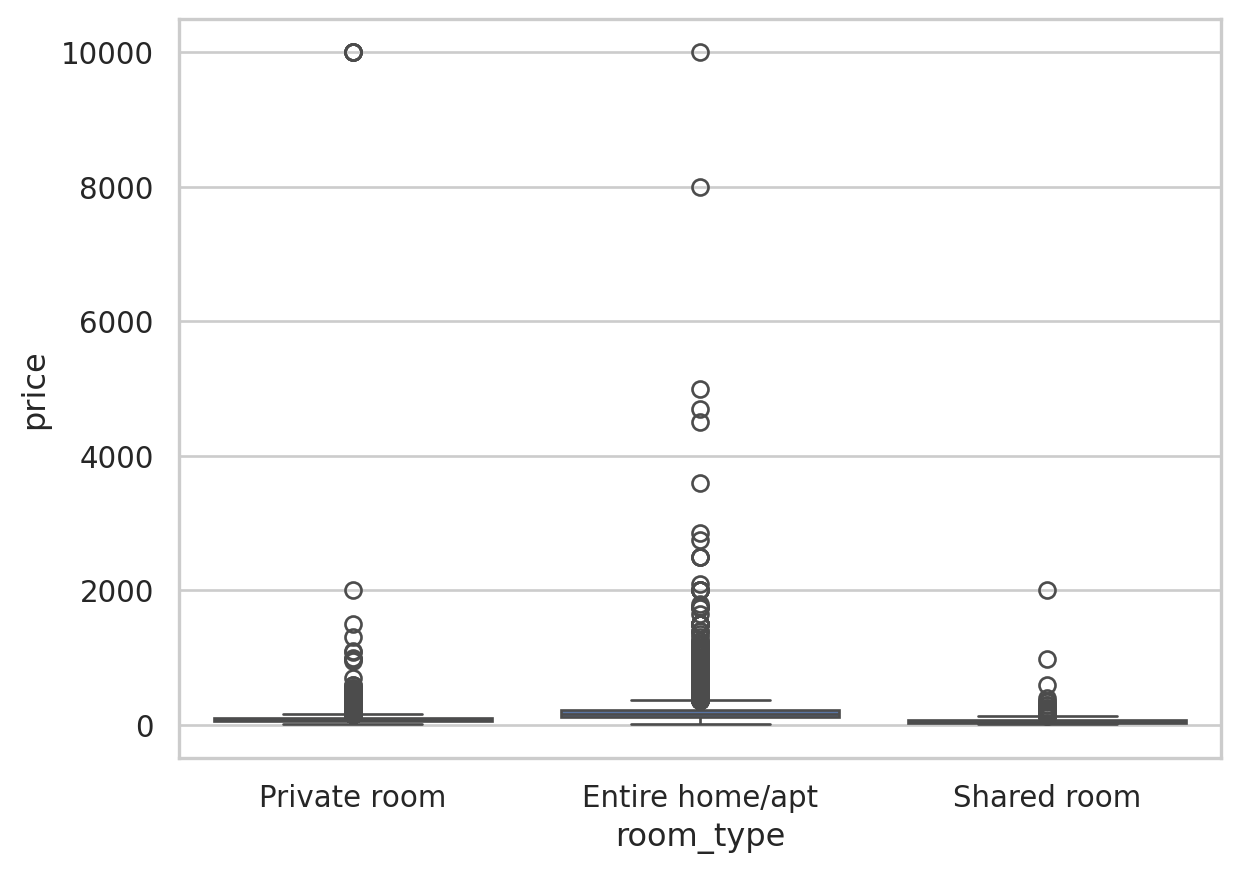
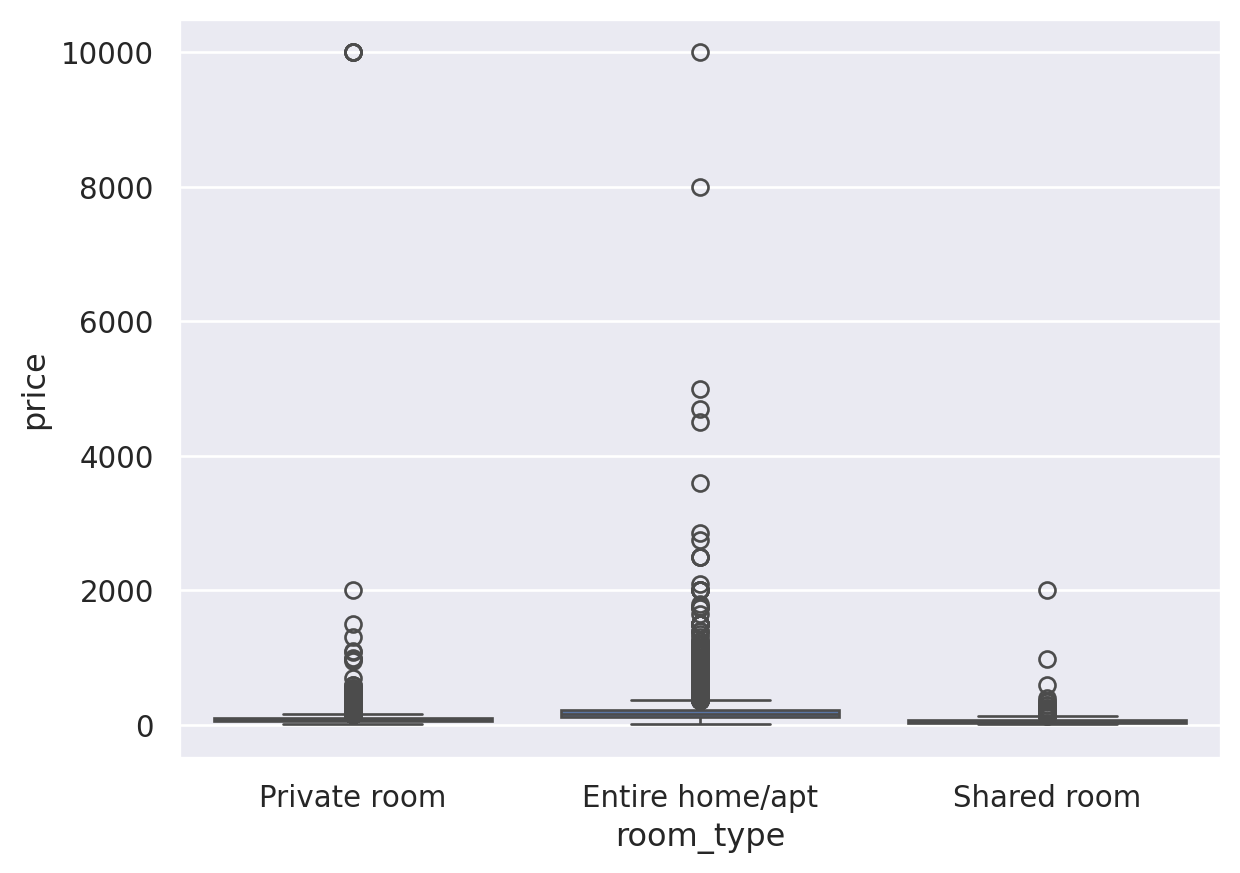
commitfinal2

diff --git a/docs/projects/homework1/hw2_questions.html b/docs/projects/homework1/hw2_questions.html
@@ -194,6 +194,8 @@ window.Quarto = {
   <li><a href="#estimation-of-simple-poisson-model" id="toc-estimation-of-simple-poisson-model" class="nav-link" data-scroll-target="#estimation-of-simple-poisson-model">Estimation of Simple Poisson Model</a></li>
   <li><a href="#estimation-of-poisson-regression-model" id="toc-estimation-of-poisson-regression-model" class="nav-link" data-scroll-target="#estimation-of-poisson-regression-model">Estimation of Poisson Regression Model</a></li>
   </ul></li>
+  <li><a href="#compute-the-poisson-regression-log-likelihood-for-given-beta-observed-y-and-covariate-matrix-x." id="toc-compute-the-poisson-regression-log-likelihood-for-given-beta-observed-y-and-covariate-matrix-x." class="nav-link" data-scroll-target="#compute-the-poisson-regression-log-likelihood-for-given-beta-observed-y-and-covariate-matrix-x.">Compute the Poisson regression log-likelihood for given beta, observed Y, and covariate matrix X.</a>
+  <ul class="collapse">
   <li><a href="#validate-the-results-above-using-statsmodels.glm-from-python" id="toc-validate-the-results-above-using-statsmodels.glm-from-python" class="nav-link" data-scroll-target="#validate-the-results-above-using-statsmodels.glm-from-python">Validate the results above using <code>statsmodels.GLM()</code> from Python</a></li>
   <li><a href="#interpretations" id="toc-interpretations" class="nav-link" data-scroll-target="#interpretations">Interpretations:</a></li>
   <li><a href="#the-effect-of-blueprintys-software-is-further-assessed-using-counterfactual-prediction-to-isolate-its-impact." id="toc-the-effect-of-blueprintys-software-is-further-assessed-using-counterfactual-prediction-to-isolate-its-impact." class="nav-link" data-scroll-target="#the-effect-of-blueprintys-software-is-further-assessed-using-counterfactual-prediction-to-isolate-its-impact.">The effect of Blueprinty’s software is further assessed using counterfactual prediction to isolate its impact.</a></li>
@@ -203,6 +205,7 @@ window.Quarto = {
   <li><a href="#poisson-regression-model-using-statsmodels.glm" id="toc-poisson-regression-model-using-statsmodels.glm" class="nav-link" data-scroll-target="#poisson-regression-model-using-statsmodels.glm">Poisson Regression Model Using <code>statsmodels.GLM()</code></a></li>
   </ul></li>
   <li><a href="#interpretation" id="toc-interpretation" class="nav-link" data-scroll-target="#interpretation">Interpretation</a></li>
+  </ul></li>
   </ul>
 </nav>
     </div>
@@ -249,7 +252,7 @@ window.Quarto = {
 </section>
 <section id="data" class="level3">
 <h3 class="anchored" data-anchor-id="data">Data</h3>
-<div id="7b946350" class="cell" data-execution_count="1">
+<div id="c17c885d" class="cell" data-execution_count="1">
 <div class="sourceCode cell-code" id="cb1"><pre class="sourceCode python code-with-copy"><code class="sourceCode python"><span id="cb1-1"><a href="#cb1-1" aria-hidden="true" tabindex="-1"></a><span class="im">import</span> pandas <span class="im">as</span> pd</span>
 <span id="cb1-2"><a href="#cb1-2" aria-hidden="true" tabindex="-1"></a><span class="im">import</span> seaborn <span class="im">as</span> sns</span>
 <span id="cb1-3"><a href="#cb1-3" aria-hidden="true" tabindex="-1"></a></span>
@@ -258,7 +261,7 @@ window.Quarto = {
 <span id="cb1-6"><a href="#cb1-6" aria-hidden="true" tabindex="-1"></a></span>
 <span id="cb1-7"><a href="#cb1-7" aria-hidden="true" tabindex="-1"></a><span class="co"># Display the first few rows of the dataset</span></span>
 <span id="cb1-8"><a href="#cb1-8" aria-hidden="true" tabindex="-1"></a>data.head()</span></code><button title="Copy to Clipboard" class="code-copy-button"><i class="bi"></i></button></pre></div>
-<div class="cell-output cell-output-display" data-execution_count="1">
+<div class="cell-output cell-output-display" data-execution_count="25">
 <div>
 
 
@@ -314,26 +317,29 @@ window.Quarto = {
 </div>
 </div>
 </div>
-<div id="eb3f9d71" class="cell" data-execution_count="2">
+<div id="50f2c9d8" class="cell" data-execution_count="2">
 <div class="sourceCode cell-code" id="cb2"><pre class="sourceCode python code-with-copy"><code class="sourceCode python"><span id="cb2-1"><a href="#cb2-1" aria-hidden="true" tabindex="-1"></a><span class="im">import</span> matplotlib.pyplot <span class="im">as</span> plt</span>
 <span id="cb2-2"><a href="#cb2-2" aria-hidden="true" tabindex="-1"></a><span class="im">import</span> seaborn <span class="im">as</span> sns</span>
 <span id="cb2-3"><a href="#cb2-3" aria-hidden="true" tabindex="-1"></a>sns.<span class="bu">set</span>(style<span class="op">=</span><span class="st">"whitegrid"</span>)</span>
 <span id="cb2-4"><a href="#cb2-4" aria-hidden="true" tabindex="-1"></a>plt.figure(figsize<span class="op">=</span>(<span class="dv">8</span>, <span class="dv">6</span>))</span>
-<span id="cb2-5"><a href="#cb2-5" aria-hidden="true" tabindex="-1"></a>sns.histplot(data<span class="op">=</span>data, x<span class="op">=</span><span class="st">"patents"</span>, hue<span class="op">=</span><span class="st">"iscustomer"</span>, bins<span class="op">=</span><span class="dv">20</span>, multiple<span class="op">=</span><span class="st">"dodge"</span>)</span>
-<span id="cb2-6"><a href="#cb2-6" aria-hidden="true" tabindex="-1"></a>plt.title(<span class="st">"Number of Patents by Customer Status"</span>)</span>
-<span id="cb2-7"><a href="#cb2-7" aria-hidden="true" tabindex="-1"></a>plt.xlabel(<span class="st">"Number of Patents"</span>)</span>
-<span id="cb2-8"><a href="#cb2-8" aria-hidden="true" tabindex="-1"></a>plt.ylabel(<span class="st">"Number of Firms"</span>)</span>
-<span id="cb2-9"><a href="#cb2-9" aria-hidden="true" tabindex="-1"></a>plt.legend(title<span class="op">=</span><span class="st">"Is Customer"</span>, labels<span class="op">=</span>[<span class="st">"Non-Customer"</span>, <span class="st">"Customer"</span>])</span>
-<span id="cb2-10"><a href="#cb2-10" aria-hidden="true" tabindex="-1"></a>plt.show()</span></code><button title="Copy to Clipboard" class="code-copy-button"><i class="bi"></i></button></pre></div>
+<span id="cb2-5"><a href="#cb2-5" aria-hidden="true" tabindex="-1"></a>palette <span class="op">=</span> {<span class="dv">0</span>: <span class="st">"#2ca02c"</span>, <span class="dv">1</span>: <span class="st">"#d62728"</span>}  </span>
+<span id="cb2-6"><a href="#cb2-6" aria-hidden="true" tabindex="-1"></a>sns.<span class="bu">set</span>(style<span class="op">=</span><span class="st">"darkgrid"</span>) </span>
+<span id="cb2-7"><a href="#cb2-7" aria-hidden="true" tabindex="-1"></a>sns.histplot(data<span class="op">=</span>data, x<span class="op">=</span><span class="st">"patents"</span>, hue<span class="op">=</span><span class="st">"iscustomer"</span>, bins<span class="op">=</span><span class="dv">20</span>, multiple<span class="op">=</span><span class="st">"dodge"</span>, palette<span class="op">=</span>palette)</span>
+<span id="cb2-8"><a href="#cb2-8" aria-hidden="true" tabindex="-1"></a>plt.title(<span class="st">"Number of Patents by Customer Status"</span>, fontsize<span class="op">=</span><span class="dv">14</span>)</span>
+<span id="cb2-9"><a href="#cb2-9" aria-hidden="true" tabindex="-1"></a>plt.xlabel(<span class="st">"Number of Patents"</span>, fontsize<span class="op">=</span><span class="dv">12</span>)</span>
+<span id="cb2-10"><a href="#cb2-10" aria-hidden="true" tabindex="-1"></a>plt.ylabel(<span class="st">"Number of Firms"</span>, fontsize<span class="op">=</span><span class="dv">12</span>)</span>
+<span id="cb2-11"><a href="#cb2-11" aria-hidden="true" tabindex="-1"></a>plt.legend(title<span class="op">=</span><span class="st">"Is Customer"</span>, labels<span class="op">=</span>[<span class="st">"Non-Customer"</span>, <span class="st">"Customer"</span>], fontsize<span class="op">=</span><span class="dv">10</span>)</span>
+<span id="cb2-12"><a href="#cb2-12" aria-hidden="true" tabindex="-1"></a>plt.tight_layout()</span>
+<span id="cb2-13"><a href="#cb2-13" aria-hidden="true" tabindex="-1"></a>plt.show()</span></code><button title="Copy to Clipboard" class="code-copy-button"><i class="bi"></i></button></pre></div>
 <div class="cell-output cell-output-display">
 <div>
 <figure class="figure">
-<p><img src="hw2_questions_files/figure-html/cell-3-output-1.png" width="676" height="531" class="figure-img"></p>
+<p><img src="hw2_questions_files/figure-html/cell-3-output-1.png" width="753" height="561" class="figure-img"></p>
 </figure>
 </div>
 </div>
 </div>
-<div id="fdcd8167" class="cell" data-execution_count="3">
+<div id="d07ccca8" class="cell" data-execution_count="3">
 <div class="sourceCode cell-code" id="cb3"><pre class="sourceCode python code-with-copy"><code class="sourceCode python"><span id="cb3-1"><a href="#cb3-1" aria-hidden="true" tabindex="-1"></a><span class="co"># Filter data into customers and non-customers</span></span>
 <span id="cb3-2"><a href="#cb3-2" aria-hidden="true" tabindex="-1"></a>customers <span class="op">=</span> data[data[<span class="st">'iscustomer'</span>] <span class="op">==</span> <span class="dv">1</span>]</span>
 <span id="cb3-3"><a href="#cb3-3" aria-hidden="true" tabindex="-1"></a>non_customers <span class="op">=</span> data[data[<span class="st">'iscustomer'</span>] <span class="op">==</span> <span class="dv">0</span>]</span>
@@ -354,11 +360,11 @@ Mean number of patents for non-customers: 3.4730127576054954</code></pre>
 <h2 class="anchored" data-anchor-id="observations">Observations:</h2>
 <p>Companies that use Blueprinty typically hold a higher average number of patents (around 4.13) compared to those that don’t (approximately 3.47). The histogram reveals that customer firms are more frequently found among those with greater patent counts, hinting at a possible positive link between Blueprinty usage and patent performance. Nevertheless, this trend could also be shaped by additional variables like geographic location or the age of the firm, which warrant further investigation.</p>
 <p>Blueprinty customers are not selected at random. It may be important to account for systematic differences in the age and regional location of customers vs non-customers.</p>
-<div id="54a49f62" class="cell" data-execution_count="4">
+<div id="a1823652" class="cell" data-execution_count="4">
 <div class="sourceCode cell-code" id="cb5"><pre class="sourceCode python code-with-copy"><code class="sourceCode python"><span id="cb5-1"><a href="#cb5-1" aria-hidden="true" tabindex="-1"></a><span class="im">import</span> seaborn <span class="im">as</span> sns</span>
 <span id="cb5-2"><a href="#cb5-2" aria-hidden="true" tabindex="-1"></a><span class="im">import</span> matplotlib.pyplot <span class="im">as</span> plt</span>
 <span id="cb5-3"><a href="#cb5-3" aria-hidden="true" tabindex="-1"></a></span>
-<span id="cb5-4"><a href="#cb5-4" aria-hidden="true" tabindex="-1"></a>palette <span class="op">=</span> {<span class="dv">0</span>: <span class="st">"#4C72B0"</span>, <span class="dv">1</span>: <span class="st">"#DD8452"</span>}</span>
+<span id="cb5-4"><a href="#cb5-4" aria-hidden="true" tabindex="-1"></a>palette <span class="op">=</span> {<span class="dv">0</span>: <span class="st">"#2ca02c"</span>, <span class="dv">1</span>: <span class="st">"#d62728"</span>}</span>
 <span id="cb5-5"><a href="#cb5-5" aria-hidden="true" tabindex="-1"></a>plt.figure(figsize<span class="op">=</span>(<span class="dv">8</span>, <span class="dv">6</span>))</span>
 <span id="cb5-6"><a href="#cb5-6" aria-hidden="true" tabindex="-1"></a>sns.countplot(data<span class="op">=</span>data, x<span class="op">=</span><span class="st">"region"</span>, hue<span class="op">=</span><span class="st">"iscustomer"</span>, palette<span class="op">=</span>palette)</span>
 <span id="cb5-7"><a href="#cb5-7" aria-hidden="true" tabindex="-1"></a>plt.title(<span class="st">"Region Distribution by Customer Status"</span>)</span>
@@ -375,7 +381,7 @@ Mean number of patents for non-customers: 3.4730127576054954</code></pre>
 </div>
 </div>
 </div>
-<div id="25ab9aca" class="cell" data-execution_count="5">
+<div id="468a42af" class="cell" data-execution_count="5">
 <div class="sourceCode cell-code" id="cb6"><pre class="sourceCode python code-with-copy"><code class="sourceCode python"><span id="cb6-1"><a href="#cb6-1" aria-hidden="true" tabindex="-1"></a><span class="co"># Compare regions by customer status</span></span>
 <span id="cb6-2"><a href="#cb6-2" aria-hidden="true" tabindex="-1"></a>region_counts_customers <span class="op">=</span> customers[<span class="st">'region'</span>].value_counts(normalize<span class="op">=</span><span class="va">True</span>)</span>
 <span id="cb6-3"><a href="#cb6-3" aria-hidden="true" tabindex="-1"></a>region_counts_non_customers <span class="op">=</span> non_customers[<span class="st">'region'</span>].value_counts(normalize<span class="op">=</span><span class="va">True</span>)</span>
@@ -419,7 +425,7 @@ Mean age for non-customers: 26.101570166830225</code></pre>
 <section id="estimation-of-simple-poisson-model" class="level3">
 <h3 class="anchored" data-anchor-id="estimation-of-simple-poisson-model">Estimation of Simple Poisson Model</h3>
 <p>Since our outcome variable of interest can only be small integer values per a set unit of time, we can use a Poisson density to model the number of patents awarded to each engineering firm over the last 5 years. We start by estimating a simple Poisson model via Maximum Likelihood.</p>
-<div id="35aa89d4" class="cell" data-execution_count="6">
+<div id="cc6d4b87" class="cell" data-execution_count="6">
 <div class="sourceCode cell-code" id="cb8"><pre class="sourceCode python code-with-copy"><code class="sourceCode python"><span id="cb8-1"><a href="#cb8-1" aria-hidden="true" tabindex="-1"></a><span class="co"># Define the Poisson likelihood function</span></span>
 <span id="cb8-2"><a href="#cb8-2" aria-hidden="true" tabindex="-1"></a><span class="im">import</span> numpy <span class="im">as</span> np</span>
 <span id="cb8-3"><a href="#cb8-3" aria-hidden="true" tabindex="-1"></a></span>
@@ -439,13 +445,13 @@ Mean age for non-customers: 26.101570166830225</code></pre>
 <pre><code>Poisson likelihood for Y=5 and lambda=3.0: 0.10081881344492448</code></pre>
 </div>
 <div class="cell-output cell-output-stderr">
-<pre><code>/tmp/ipykernel_60460/637518867.py:8: DeprecationWarning:
+<pre><code>/tmp/ipykernel_13788/637518867.py:8: DeprecationWarning:
 
 `np.math` is a deprecated alias for the standard library `math` module (Deprecated Numpy 1.25). Replace usages of `np.math` with `math`
 </code></pre>
 </div>
 </div>
-<div id="1b0100be" class="cell" data-execution_count="7">
+<div id="a473c160" class="cell" data-execution_count="7">
 <div class="sourceCode cell-code" id="cb11"><pre class="sourceCode python code-with-copy"><code class="sourceCode python"><span id="cb11-1"><a href="#cb11-1" aria-hidden="true" tabindex="-1"></a><span class="kw">def</span> poisson_loglikelihood(lambda_, Y):</span>
 <span id="cb11-2"><a href="#cb11-2" aria-hidden="true" tabindex="-1"></a>   <span class="co">"""</span></span>
 <span id="cb11-3"><a href="#cb11-3" aria-hidden="true" tabindex="-1"></a><span class="co">   Compute the Poisson log-likelihood for given lambda and observed Y.</span></span>
@@ -454,7 +460,7 @@ Mean age for non-customers: 26.101570166830225</code></pre>
 <span id="cb11-6"><a href="#cb11-6" aria-hidden="true" tabindex="-1"></a>   log_likelihood <span class="op">=</span> np.<span class="bu">sum</span>(Y <span class="op">*</span> np.log(lambda_) <span class="op">-</span> lambda_ <span class="op">-</span> np.log(factorial(Y)))</span>
 <span id="cb11-7"><a href="#cb11-7" aria-hidden="true" tabindex="-1"></a>   <span class="cf">return</span> log_likelihood</span></code><button title="Copy to Clipboard" class="code-copy-button"><i class="bi"></i></button></pre></div>
 </div>
-<div id="10ddb524" class="cell" data-execution_count="8">
+<div id="da6a0809" class="cell" data-execution_count="8">
 <div class="sourceCode cell-code" id="cb12"><pre class="sourceCode python code-with-copy"><code class="sourceCode python"><span id="cb12-1"><a href="#cb12-1" aria-hidden="true" tabindex="-1"></a><span class="co"># Define a range of lambda values</span></span>
 <span id="cb12-2"><a href="#cb12-2" aria-hidden="true" tabindex="-1"></a>lambda_values <span class="op">=</span> np.linspace(<span class="fl">0.1</span>, <span class="dv">10</span>, <span class="dv">100</span>)</span>
 <span id="cb12-3"><a href="#cb12-3" aria-hidden="true" tabindex="-1"></a></span>
@@ -480,7 +486,7 @@ Mean age for non-customers: 26.101570166830225</code></pre>
 </div>
 </div>
 </div>
-<div id="4cbd5523" class="cell" data-execution_count="9">
+<div id="ea11f2c3" class="cell" data-execution_count="9">
 <div class="sourceCode cell-code" id="cb13"><pre class="sourceCode python code-with-copy"><code class="sourceCode python"><span id="cb13-1"><a href="#cb13-1" aria-hidden="true" tabindex="-1"></a><span class="co"># Derive the first derivative of the log-likelihood function</span></span>
 <span id="cb13-2"><a href="#cb13-2" aria-hidden="true" tabindex="-1"></a><span class="co"># Log-likelihood: l(lambda) = Y * log(lambda) - lambda - log(Y!)</span></span>
 <span id="cb13-3"><a href="#cb13-3" aria-hidden="true" tabindex="-1"></a><span class="co"># First derivative: dl/dlambda = Y / lambda - 1</span></span>
@@ -503,7 +509,7 @@ Mean age for non-customers: 26.101570166830225</code></pre>
 <pre><code>MLE for lambda (mean of Y): 4.0</code></pre>
 </div>
 </div>
-<div id="ce871cf1" class="cell" data-execution_count="10">
+<div id="95581220" class="cell" data-execution_count="10">
 <div class="sourceCode cell-code" id="cb15"><pre class="sourceCode python code-with-copy"><code class="sourceCode python"><span id="cb15-1"><a href="#cb15-1" aria-hidden="true" tabindex="-1"></a><span class="im">from</span> scipy.optimize <span class="im">import</span> minimize</span>
 <span id="cb15-2"><a href="#cb15-2" aria-hidden="true" tabindex="-1"></a></span>
 <span id="cb15-3"><a href="#cb15-3" aria-hidden="true" tabindex="-1"></a><span class="co"># Define the negative log-likelihood function for optimization</span></span>
@@ -530,21 +536,21 @@ Mean age for non-customers: 26.101570166830225</code></pre>
 <section id="estimation-of-poisson-regression-model" class="level3">
 <h3 class="anchored" data-anchor-id="estimation-of-poisson-regression-model">Estimation of Poisson Regression Model</h3>
 <p>Next, we extend our simple Poisson model to a Poisson Regression Model such that <span class="math inline">\(Y_i = \text{Poisson}(\lambda_i)\)</span> where <span class="math inline">\(\lambda_i = \exp(X_i'\beta)\)</span>. The interpretation is that the success rate of patent awards is not constant across all firms (<span class="math inline">\(\lambda\)</span>) but rather is a function of firm characteristics <span class="math inline">\(X_i\)</span>. Specifically, we will use the covariates age, age squared, region, and whether the firm is a customer of Blueprinty.</p>
-<div id="987d0a73" class="cell" data-execution_count="11">
+</section>
+</section>
+<section id="compute-the-poisson-regression-log-likelihood-for-given-beta-observed-y-and-covariate-matrix-x." class="level1">
+<h1>Compute the Poisson regression log-likelihood for given beta, observed Y, and covariate matrix X.</h1>
+<div id="660614d1" class="cell" data-execution_count="11">
 <div class="sourceCode cell-code" id="cb17"><pre class="sourceCode python code-with-copy"><code class="sourceCode python"><span id="cb17-1"><a href="#cb17-1" aria-hidden="true" tabindex="-1"></a><span class="im">import</span> numpy <span class="im">as</span> np</span>
 <span id="cb17-2"><a href="#cb17-2" aria-hidden="true" tabindex="-1"></a><span class="im">from</span> scipy.special <span class="im">import</span> gammaln</span>
 <span id="cb17-3"><a href="#cb17-3" aria-hidden="true" tabindex="-1"></a></span>
-<span id="cb17-4"><a href="#cb17-4" aria-hidden="true" tabindex="-1"></a><span class="kw">def</span> poisson_regression_loglikelihood(beta, Y, X):</span>
-<span id="cb17-5"><a href="#cb17-5" aria-hidden="true" tabindex="-1"></a>   <span class="co">"""</span></span>
-<span id="cb17-6"><a href="#cb17-6" aria-hidden="true" tabindex="-1"></a><span class="co">   Compute the Poisson regression log-likelihood for given beta, observed Y, and covariate matrix X.</span></span>
-<span id="cb17-7"><a href="#cb17-7" aria-hidden="true" tabindex="-1"></a><span class="co">   """</span></span>
-<span id="cb17-8"><a href="#cb17-8" aria-hidden="true" tabindex="-1"></a><span class="co"># Define Poisson regression log-likelihood function</span></span>
-<span id="cb17-9"><a href="#cb17-9" aria-hidden="true" tabindex="-1"></a><span class="kw">def</span> poisson_regression_loglike(beta, X, Y):</span>
-<span id="cb17-10"><a href="#cb17-10" aria-hidden="true" tabindex="-1"></a>    Xbeta <span class="op">=</span> X <span class="op">@</span> beta</span>
-<span id="cb17-11"><a href="#cb17-11" aria-hidden="true" tabindex="-1"></a>    lambdas <span class="op">=</span> np.exp(Xbeta)</span>
-<span id="cb17-12"><a href="#cb17-12" aria-hidden="true" tabindex="-1"></a>    <span class="cf">return</span> np.<span class="bu">sum</span>(<span class="op">-</span>lambdas <span class="op">+</span> Y <span class="op">*</span> Xbeta <span class="op">-</span> gammaln(Y <span class="op">+</span> <span class="dv">1</span>))</span></code><button title="Copy to Clipboard" class="code-copy-button"><i class="bi"></i></button></pre></div>
+<span id="cb17-4"><a href="#cb17-4" aria-hidden="true" tabindex="-1"></a><span class="co"># Define Poisson regression log-likelihood function</span></span>
+<span id="cb17-5"><a href="#cb17-5" aria-hidden="true" tabindex="-1"></a><span class="kw">def</span> poisson_regression_loglikelihood(beta, Y, X):</span>
+<span id="cb17-6"><a href="#cb17-6" aria-hidden="true" tabindex="-1"></a>    Xbeta <span class="op">=</span> X <span class="op">@</span> beta</span>
+<span id="cb17-7"><a href="#cb17-7" aria-hidden="true" tabindex="-1"></a>    lambdas <span class="op">=</span> np.exp(Xbeta)</span>
+<span id="cb17-8"><a href="#cb17-8" aria-hidden="true" tabindex="-1"></a>    <span class="cf">return</span> np.<span class="bu">sum</span>(<span class="op">-</span>lambdas <span class="op">+</span> Y <span class="op">*</span> Xbeta <span class="op">-</span> gammaln(Y <span class="op">+</span> <span class="dv">1</span>))</span></code><button title="Copy to Clipboard" class="code-copy-button"><i class="bi"></i></button></pre></div>
 </div>
-<div id="db2dc687" class="cell" data-execution_count="12">
+<div id="0c02a0cb" class="cell" data-execution_count="12">
 <div class="sourceCode cell-code" id="cb18"><pre class="sourceCode python code-with-copy"><code class="sourceCode python"><span id="cb18-1"><a href="#cb18-1" aria-hidden="true" tabindex="-1"></a><span class="im">import</span> numpy <span class="im">as</span> np</span>
 <span id="cb18-2"><a href="#cb18-2" aria-hidden="true" tabindex="-1"></a><span class="im">from</span> scipy.optimize <span class="im">import</span> minimize</span>
 <span id="cb18-3"><a href="#cb18-3" aria-hidden="true" tabindex="-1"></a><span class="im">from</span> scipy.linalg <span class="im">import</span> inv</span>
@@ -567,7 +573,7 @@ Mean age for non-customers: 26.101570166830225</code></pre>
 <span id="cb18-20"><a href="#cb18-20" aria-hidden="true" tabindex="-1"></a></span>
 <span id="cb18-21"><a href="#cb18-21" aria-hidden="true" tabindex="-1"></a>Y <span class="op">=</span> data[<span class="st">"patents"</span>].values</span>
 <span id="cb18-22"><a href="#cb18-22" aria-hidden="true" tabindex="-1"></a>X_matrix <span class="op">=</span> X.values</span>
-<span id="cb18-23"><a href="#cb18-23" aria-hidden="true" tabindex="-1"></a><span class="kw">def</span> poisson_loglike(beta, X, Y):</span>
+<span id="cb18-23"><a href="#cb18-23" aria-hidden="true" tabindex="-1"></a><span class="kw">def</span> poisson_regression_loglikelihood(beta, X, Y):</span>
 <span id="cb18-24"><a href="#cb18-24" aria-hidden="true" tabindex="-1"></a>    beta <span class="op">=</span> np.atleast_1d(np.asarray(beta))</span>
 <span id="cb18-25"><a href="#cb18-25" aria-hidden="true" tabindex="-1"></a>    Xb <span class="op">=</span> np.dot(X, beta).astype(np.float64)</span>
 <span id="cb18-26"><a href="#cb18-26" aria-hidden="true" tabindex="-1"></a>    Xb_clipped <span class="op">=</span> np.clip(Xb, a_min<span class="op">=</span><span class="va">None</span>, a_max<span class="op">=</span><span class="dv">20</span>)  <span class="co"># cap max exponent</span></span>
@@ -576,7 +582,7 @@ Mean age for non-customers: 26.101570166830225</code></pre>
 <span id="cb18-29"><a href="#cb18-29" aria-hidden="true" tabindex="-1"></a>    <span class="cf">return</span> np.<span class="bu">sum</span>(<span class="op">-</span>lam <span class="op">+</span> Y <span class="op">*</span> Xb <span class="op">-</span> gammaln(Y <span class="op">+</span> <span class="dv">1</span>))</span>
 <span id="cb18-30"><a href="#cb18-30" aria-hidden="true" tabindex="-1"></a></span>
 <span id="cb18-31"><a href="#cb18-31" aria-hidden="true" tabindex="-1"></a><span class="kw">def</span> neg_loglike(beta, X, Y):</span>
-<span id="cb18-32"><a href="#cb18-32" aria-hidden="true" tabindex="-1"></a>    <span class="cf">return</span> <span class="op">-</span>poisson_loglike(beta, X, Y)</span>
+<span id="cb18-32"><a href="#cb18-32" aria-hidden="true" tabindex="-1"></a>    <span class="cf">return</span> <span class="op">-</span>poisson_regression_loglikelihood(beta, X, Y)</span>
 <span id="cb18-33"><a href="#cb18-33" aria-hidden="true" tabindex="-1"></a></span>
 <span id="cb18-34"><a href="#cb18-34" aria-hidden="true" tabindex="-1"></a></span>
 <span id="cb18-35"><a href="#cb18-35" aria-hidden="true" tabindex="-1"></a>initial_beta <span class="op">=</span> np.zeros(X.shape[<span class="dv">1</span>])</span>
@@ -590,7 +596,7 @@ Mean age for non-customers: 26.101570166830225</code></pre>
 <span id="cb18-43"><a href="#cb18-43" aria-hidden="true" tabindex="-1"></a>}, index<span class="op">=</span>X.columns)</span>
 <span id="cb18-44"><a href="#cb18-44" aria-hidden="true" tabindex="-1"></a></span>
 <span id="cb18-45"><a href="#cb18-45" aria-hidden="true" tabindex="-1"></a>summary</span></code><button title="Copy to Clipboard" class="code-copy-button"><i class="bi"></i></button></pre></div>
-<div class="cell-output cell-output-display" data-execution_count="12">
+<div class="cell-output cell-output-display" data-execution_count="36">
 <div>
 
 
@@ -649,11 +655,9 @@ Mean age for non-customers: 26.101570166830225</code></pre>
 </div>
 </div>
 </div>
-</section>
-</section>
 <section id="validate-the-results-above-using-statsmodels.glm-from-python" class="level2">
 <h2 class="anchored" data-anchor-id="validate-the-results-above-using-statsmodels.glm-from-python">Validate the results above using <code>statsmodels.GLM()</code> from Python</h2>
-<div id="2aa95d44" class="cell" data-execution_count="13">
+<div id="5c54f65e" class="cell" data-execution_count="13">
 <div class="sourceCode cell-code" id="cb19"><pre class="sourceCode python code-with-copy"><code class="sourceCode python"><span id="cb19-1"><a href="#cb19-1" aria-hidden="true" tabindex="-1"></a><span class="im">import</span> statsmodels.api <span class="im">as</span> sm</span>
 <span id="cb19-2"><a href="#cb19-2" aria-hidden="true" tabindex="-1"></a></span>
 <span id="cb19-3"><a href="#cb19-3" aria-hidden="true" tabindex="-1"></a><span class="co"># Drop 'intercept' column and ensure all data is float</span></span>
@@ -669,14 +673,12 @@ Mean age for non-customers: 26.101570166830225</code></pre>
 <span id="cb19-13"><a href="#cb19-13" aria-hidden="true" tabindex="-1"></a><span class="co"># Display summary</span></span>
 <span id="cb19-14"><a href="#cb19-14" aria-hidden="true" tabindex="-1"></a>glm_results.summary()</span>
 <span id="cb19-15"><a href="#cb19-15" aria-hidden="true" tabindex="-1"></a></span>
-<span id="cb19-16"><a href="#cb19-16" aria-hidden="true" tabindex="-1"></a><span class="co">### Coefficients and Standard Errors from Poisson Regression</span></span>
-<span id="cb19-17"><a href="#cb19-17" aria-hidden="true" tabindex="-1"></a></span>
-<span id="cb19-18"><a href="#cb19-18" aria-hidden="true" tabindex="-1"></a><span class="co"># Conduct coefficient summary and create a table</span></span>
-<span id="cb19-19"><a href="#cb19-19" aria-hidden="true" tabindex="-1"></a>coefficient_summary <span class="op">=</span> glm_results.summary2().tables[<span class="dv">1</span>][[<span class="st">"Coef."</span>, <span class="st">"Std.Err."</span>]]</span>
-<span id="cb19-20"><a href="#cb19-20" aria-hidden="true" tabindex="-1"></a></span>
-<span id="cb19-21"><a href="#cb19-21" aria-hidden="true" tabindex="-1"></a><span class="co"># Display table</span></span>
-<span id="cb19-22"><a href="#cb19-22" aria-hidden="true" tabindex="-1"></a>coefficient_summary</span></code><button title="Copy to Clipboard" class="code-copy-button"><i class="bi"></i></button></pre></div>
-<div class="cell-output cell-output-display" data-execution_count="13">
+<span id="cb19-16"><a href="#cb19-16" aria-hidden="true" tabindex="-1"></a><span class="co"># Conduct coefficient summary and create a table</span></span>
+<span id="cb19-17"><a href="#cb19-17" aria-hidden="true" tabindex="-1"></a>coefficient_summary <span class="op">=</span> glm_results.summary2().tables[<span class="dv">1</span>][[<span class="st">"Coef."</span>, <span class="st">"Std.Err."</span>]]</span>
+<span id="cb19-18"><a href="#cb19-18" aria-hidden="true" tabindex="-1"></a></span>
+<span id="cb19-19"><a href="#cb19-19" aria-hidden="true" tabindex="-1"></a><span class="co"># Display table</span></span>
+<span id="cb19-20"><a href="#cb19-20" aria-hidden="true" tabindex="-1"></a>coefficient_summary</span></code><button title="Copy to Clipboard" class="code-copy-button"><i class="bi"></i></button></pre></div>
+<div class="cell-output cell-output-display" data-execution_count="37">
 <div>
 
 
@@ -752,7 +754,7 @@ Mean age for non-customers: 26.101570166830225</code></pre>
 <p>X_0: All firms are assigned as non-customers (iscustomer = 0)</p>
 <p>X_1: All firms are assigned as customers (iscustomer = 1)</p>
 <p>Using the fitted model, we predict the expected number of patents for each firm under both scenarios. The difference in predicted outcomes gives us an estimate of the average effect of using Blueprinty’s software.</p>
-<div id="a03554a3" class="cell" data-execution_count="14">
+<div id="d707797c" class="cell" data-execution_count="14">
 <div class="sourceCode cell-code" id="cb20"><pre class="sourceCode python code-with-copy"><code class="sourceCode python"><span id="cb20-1"><a href="#cb20-1" aria-hidden="true" tabindex="-1"></a><span class="co"># Create counterfactual datasets:</span></span>
 <span id="cb20-2"><a href="#cb20-2" aria-hidden="true" tabindex="-1"></a><span class="co"># X_0: simulate all firms as non-customers</span></span>
 <span id="cb20-3"><a href="#cb20-3" aria-hidden="true" tabindex="-1"></a><span class="co"># X_1: simulate all firms as customers</span></span>
@@ -799,7 +801,7 @@ Length: 1500, dtype: float64
 1499    2.810328
 Length: 1500, dtype: float64</code></pre>
 </div>
-<div class="cell-output cell-output-display" data-execution_count="14">
+<div class="cell-output cell-output-display" data-execution_count="38">
 <pre><code>0.7927680710452553</code></pre>
 </div>
 </div>
@@ -838,13 +840,13 @@ Variable Definitions
 </div>
 </div>
 </div>
-<div id="d6972703" class="cell" data-execution_count="15">
+<div id="8e0ab3ab" class="cell" data-execution_count="15">
 <div class="sourceCode cell-code" id="cb24"><pre class="sourceCode python code-with-copy"><code class="sourceCode python"><span id="cb24-1"><a href="#cb24-1" aria-hidden="true" tabindex="-1"></a><span class="co"># Load the Blueprinty data</span></span>
 <span id="cb24-2"><a href="#cb24-2" aria-hidden="true" tabindex="-1"></a>airbnb <span class="op">=</span> pd.read_csv(<span class="st">'/home/jovyan/Desktop/marketingwebsite/airbnb.csv'</span>)</span>
 <span id="cb24-3"><a href="#cb24-3" aria-hidden="true" tabindex="-1"></a></span>
 <span id="cb24-4"><a href="#cb24-4" aria-hidden="true" tabindex="-1"></a><span class="co"># Display the first few rows of the dataset</span></span>
 <span id="cb24-5"><a href="#cb24-5" aria-hidden="true" tabindex="-1"></a>airbnb.head()</span></code><button title="Copy to Clipboard" class="code-copy-button"><i class="bi"></i></button></pre></div>
-<div class="cell-output cell-output-display" data-execution_count="15">
+<div class="cell-output cell-output-display" data-execution_count="39">
 <div>
 
 
@@ -960,7 +962,7 @@ Variable Definitions
 </div>
 </div>
 </div>
-<div id="76db71f5" class="cell" data-execution_count="16">
+<div id="d28c2794" class="cell" data-execution_count="16">
 <div class="sourceCode cell-code" id="cb25"><pre class="sourceCode python code-with-copy"><code class="sourceCode python"><span id="cb25-1"><a href="#cb25-1" aria-hidden="true" tabindex="-1"></a><span class="bu">print</span>(airbnb.shape)</span>
 <span id="cb25-2"><a href="#cb25-2" aria-hidden="true" tabindex="-1"></a><span class="bu">print</span>(airbnb.info())</span></code><button title="Copy to Clipboard" class="code-copy-button"><i class="bi"></i></button></pre></div>
 <div class="cell-output cell-output-stdout">
@@ -989,7 +991,7 @@ memory usage: 4.3+ MB
 None</code></pre>
 </div>
 </div>
-<div id="e89e6b27" class="cell" data-execution_count="17">
+<div id="4c299365" class="cell" data-execution_count="17">
 <div class="sourceCode cell-code" id="cb27"><pre class="sourceCode python code-with-copy"><code class="sourceCode python"><span id="cb27-1"><a href="#cb27-1" aria-hidden="true" tabindex="-1"></a><span class="co"># Show the number of missing values in each column</span></span>
 <span id="cb27-2"><a href="#cb27-2" aria-hidden="true" tabindex="-1"></a>missing_values <span class="op">=</span> airbnb.isnull().<span class="bu">sum</span>()</span>
 <span id="cb27-3"><a href="#cb27-3" aria-hidden="true" tabindex="-1"></a><span class="bu">print</span>(<span class="st">"Number of missing values in each column:"</span>)</span>
@@ -1013,12 +1015,12 @@ instant_bookable                 0
 dtype: int64</code></pre>
 </div>
 </div>
-<div id="67059856" class="cell" data-execution_count="18">
+<div id="ca3e80fb" class="cell" data-execution_count="18">
 <div class="sourceCode cell-code" id="cb29"><pre class="sourceCode python code-with-copy"><code class="sourceCode python"><span id="cb29-1"><a href="#cb29-1" aria-hidden="true" tabindex="-1"></a>airbnb.dropna(subset<span class="op">=</span>[<span class="st">'review_scores_cleanliness'</span>, <span class="st">'review_scores_location'</span>, <span class="st">'review_scores_value'</span>], inplace<span class="op">=</span><span class="va">True</span>)</span></code><button title="Copy to Clipboard" class="code-copy-button"><i class="bi"></i></button></pre></div>
 </div>
-<div id="05b7e990" class="cell" data-execution_count="19">
+<div id="6669a9b8" class="cell" data-execution_count="19">
 <div class="sourceCode cell-code" id="cb30"><pre class="sourceCode python code-with-copy"><code class="sourceCode python"><span id="cb30-1"><a href="#cb30-1" aria-hidden="true" tabindex="-1"></a>airbnb.describe(include<span class="op">=</span><span class="st">'object'</span>)</span></code><button title="Copy to Clipboard" class="code-copy-button"><i class="bi"></i></button></pre></div>
-<div class="cell-output cell-output-display" data-execution_count="19">
+<div class="cell-output cell-output-display" data-execution_count="43">
 <div>
 
 
@@ -1067,14 +1069,14 @@ dtype: int64</code></pre>
 </div>
 </div>
 </div>
-<div id="f81b2f25" class="cell" data-execution_count="20">
+<div id="eed9f502" class="cell" data-execution_count="20">
 <div class="sourceCode cell-code" id="cb31"><pre class="sourceCode python code-with-copy"><code class="sourceCode python"><span id="cb31-1"><a href="#cb31-1" aria-hidden="true" tabindex="-1"></a>airbnb[<span class="st">'last_scraped'</span>] <span class="op">=</span> pd.to_datetime(airbnb[<span class="st">'last_scraped'</span>])</span>
 <span id="cb31-2"><a href="#cb31-2" aria-hidden="true" tabindex="-1"></a>airbnb[<span class="st">'host_since'</span>] <span class="op">=</span> pd.to_datetime(airbnb[<span class="st">'host_since'</span>])</span>
 <span id="cb31-3"><a href="#cb31-3" aria-hidden="true" tabindex="-1"></a></span>
 <span id="cb31-4"><a href="#cb31-4" aria-hidden="true" tabindex="-1"></a>airbnb[<span class="st">'days'</span>] <span class="op">=</span> (airbnb[<span class="st">'last_scraped'</span>] <span class="op">-</span> airbnb[<span class="st">'host_since'</span>]).dt.days</span></code><button title="Copy to Clipboard" class="code-copy-button"><i class="bi"></i></button></pre></div>
 </div>
 <p>Correlation Matrix for Numerical Variables</p>
-<div id="c465d16c" class="cell" data-execution_count="21">
+<div id="f00a8f74" class="cell" data-execution_count="21">
 <div class="sourceCode cell-code" id="cb32"><pre class="sourceCode python code-with-copy"><code class="sourceCode python"><span id="cb32-1"><a href="#cb32-1" aria-hidden="true" tabindex="-1"></a>numeric_cols <span class="op">=</span> [<span class="st">'price'</span>, <span class="st">'bathrooms'</span>, <span class="st">'bedrooms'</span>, <span class="st">'number_of_reviews'</span>, </span>
 <span id="cb32-2"><a href="#cb32-2" aria-hidden="true" tabindex="-1"></a>                <span class="st">'review_scores_cleanliness'</span>, <span class="st">'review_scores_location'</span>, </span>
 <span id="cb32-3"><a href="#cb32-3" aria-hidden="true" tabindex="-1"></a>                <span class="st">'review_scores_value'</span>, <span class="st">'days'</span>]</span>
@@ -1088,7 +1090,7 @@ dtype: int64</code></pre>
 </div>
 </div>
 <p>Price Distribution</p>
-<div id="55c8650d" class="cell" data-execution_count="22">
+<div id="d6567473" class="cell" data-execution_count="22">
 <div class="sourceCode cell-code" id="cb33"><pre class="sourceCode python code-with-copy"><code class="sourceCode python"><span id="cb33-1"><a href="#cb33-1" aria-hidden="true" tabindex="-1"></a>sns.histplot(airbnb[<span class="st">'price'</span>], bins<span class="op">=</span><span class="dv">50</span>)</span></code><button title="Copy to Clipboard" class="code-copy-button"><i class="bi"></i></button></pre></div>
 <div class="cell-output cell-output-display">
 <div>
@@ -1099,7 +1101,7 @@ dtype: int64</code></pre>
 </div>
 </div>
 <p>Price vs.&nbsp;Room Type</p>
-<div id="be965b8e" class="cell" data-execution_count="23">
+<div id="a0288de6" class="cell" data-execution_count="23">
 <div class="sourceCode cell-code" id="cb34"><pre class="sourceCode python code-with-copy"><code class="sourceCode python"><span id="cb34-1"><a href="#cb34-1" aria-hidden="true" tabindex="-1"></a>sns.boxplot(x<span class="op">=</span><span class="st">'room_type'</span>, y<span class="op">=</span><span class="st">'price'</span>, data<span class="op">=</span>airbnb)</span></code><button title="Copy to Clipboard" class="code-copy-button"><i class="bi"></i></button></pre></div>
 <div class="cell-output cell-output-display">
 <div>
@@ -1112,7 +1114,7 @@ dtype: int64</code></pre>
 </section>
 <section id="poisson-regression-model-using-statsmodels.glm" class="level3">
 <h3 class="anchored" data-anchor-id="poisson-regression-model-using-statsmodels.glm">Poisson Regression Model Using <code>statsmodels.GLM()</code></h3>
-<div id="f03fed42" class="cell" data-execution_count="24">
+<div id="750eb666" class="cell" data-execution_count="24">
 <div class="sourceCode cell-code" id="cb35"><pre class="sourceCode python code-with-copy"><code class="sourceCode python"><span id="cb35-1"><a href="#cb35-1" aria-hidden="true" tabindex="-1"></a><span class="co"># Prepare the design matrix X and response variable Y</span></span>
 <span id="cb35-2"><a href="#cb35-2" aria-hidden="true" tabindex="-1"></a>airbnb[<span class="st">'room_type_encoded'</span>] <span class="op">=</span> airbnb[<span class="st">'room_type'</span>].astype(<span class="st">'category'</span>).cat.codes</span>
 <span id="cb35-3"><a href="#cb35-3" aria-hidden="true" tabindex="-1"></a>X_airbnb <span class="op">=</span> airbnb[[<span class="st">'bathrooms'</span>, <span class="st">'bedrooms'</span>, <span class="st">'number_of_reviews'</span>, </span>
@@ -1131,7 +1133,7 @@ dtype: int64</code></pre>
 <span id="cb35-16"><a href="#cb35-16" aria-hidden="true" tabindex="-1"></a></span>
 <span id="cb35-17"><a href="#cb35-17" aria-hidden="true" tabindex="-1"></a><span class="co"># Display summary of the model</span></span>
 <span id="cb35-18"><a href="#cb35-18" aria-hidden="true" tabindex="-1"></a>poisson_results.summary()</span></code><button title="Copy to Clipboard" class="code-copy-button"><i class="bi"></i></button></pre></div>
-<div class="cell-output cell-output-display" data-execution_count="24">
+<div class="cell-output cell-output-display" data-execution_count="48">
 <table class="simpletable caption-top table table-sm table-striped small" data-quarto-postprocess="true">
 <caption>Generalized Linear Model Regression Results</caption>
 <tbody>
@@ -1173,7 +1175,7 @@ dtype: int64</code></pre>
 </tr>
 <tr class="odd">
 <td data-quarto-table-cell-role="th">Time:</td>
-<td>00:02:49</td>
+<td>00:21:15</td>
 <td data-quarto-table-cell-role="th">Pearson chi2:</td>
 <td>7.00e+06</td>
 </tr>
@@ -1304,6 +1306,7 @@ dtype: int64</code></pre>
 <p>Room Type (Encoded) (-0.6924): The room type significantly influences outcomes. Encoded types (likely private/shared rooms) are associated with notably lower expected counts compared to the reference category.</p>
 
 
+</section>
 </section>
 
 </main> <!-- /main -->

diff --git a/docs/projects.html b/docs/projects.html
@@ -252,7 +252,7 @@ Your Name
 </a>
 </div>
 </div>
-<div class="quarto-post image-right" data-index="2" data-listing-date-sort="1746601200000" data-listing-file-modified-sort="1746687761365" data-listing-date-modified-sort="NaN" data-listing-reading-time-sort="11" data-listing-word-count-sort="2020">
+<div class="quarto-post image-right" data-index="2" data-listing-date-sort="1746601200000" data-listing-file-modified-sort="1746688870244" data-listing-date-modified-sort="NaN" data-listing-reading-time-sort="11" data-listing-word-count-sort="2015">
 <div class="thumbnail">
 <p><a href="./projects/homework1/hw2_questions.html" class="no-external"></a></p><a href="./projects/homework1/hw2_questions.html" class="no-external">
 <p class="card-img-top"><img src="projects/homework1/hw2_questions_files/figure-html/cell-3-output-1.png"  class="thumbnail-image card-img"/></p>
